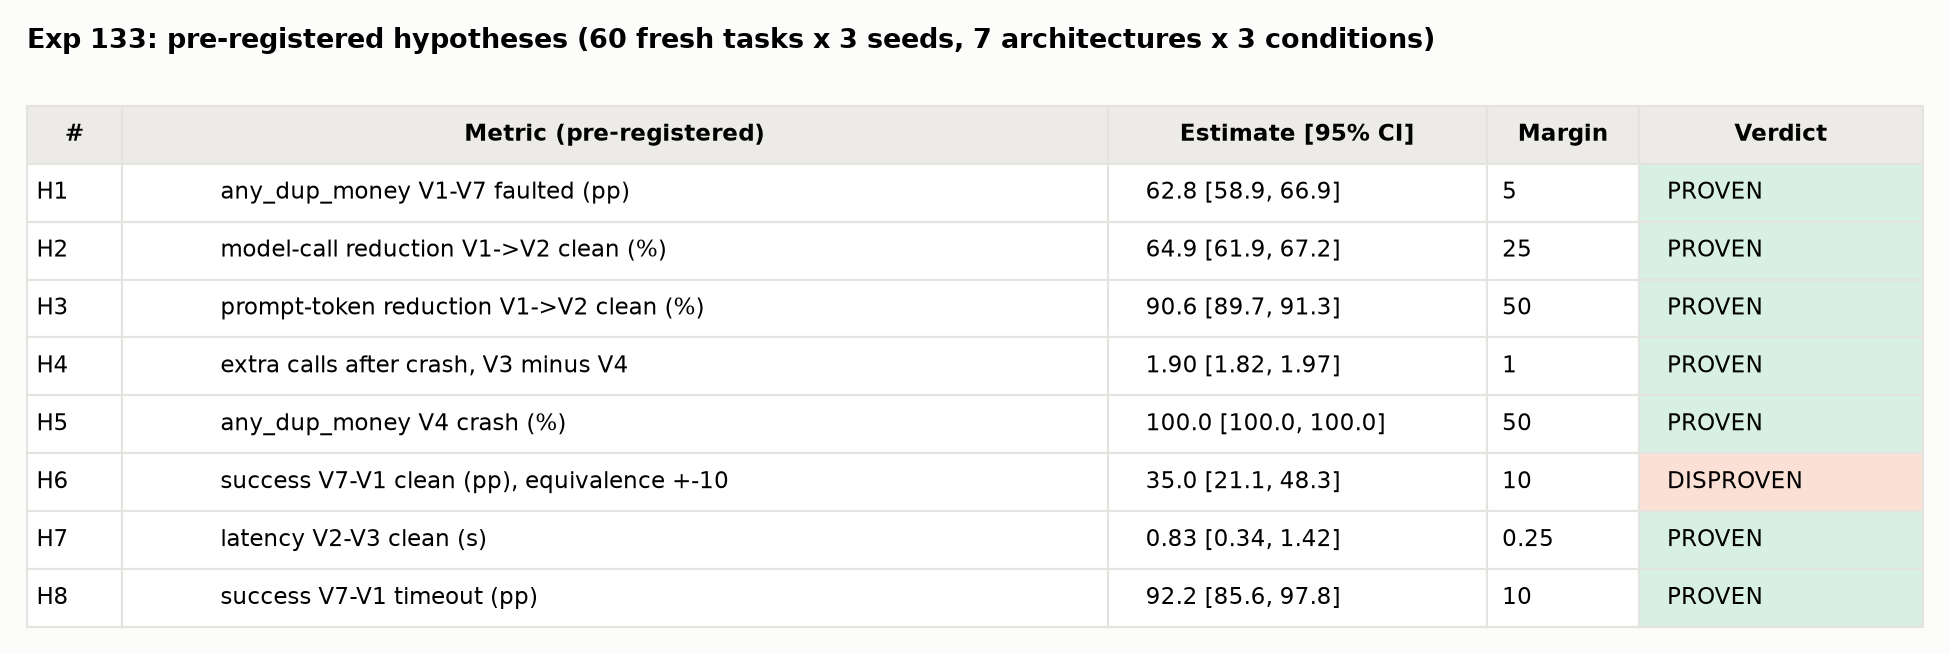
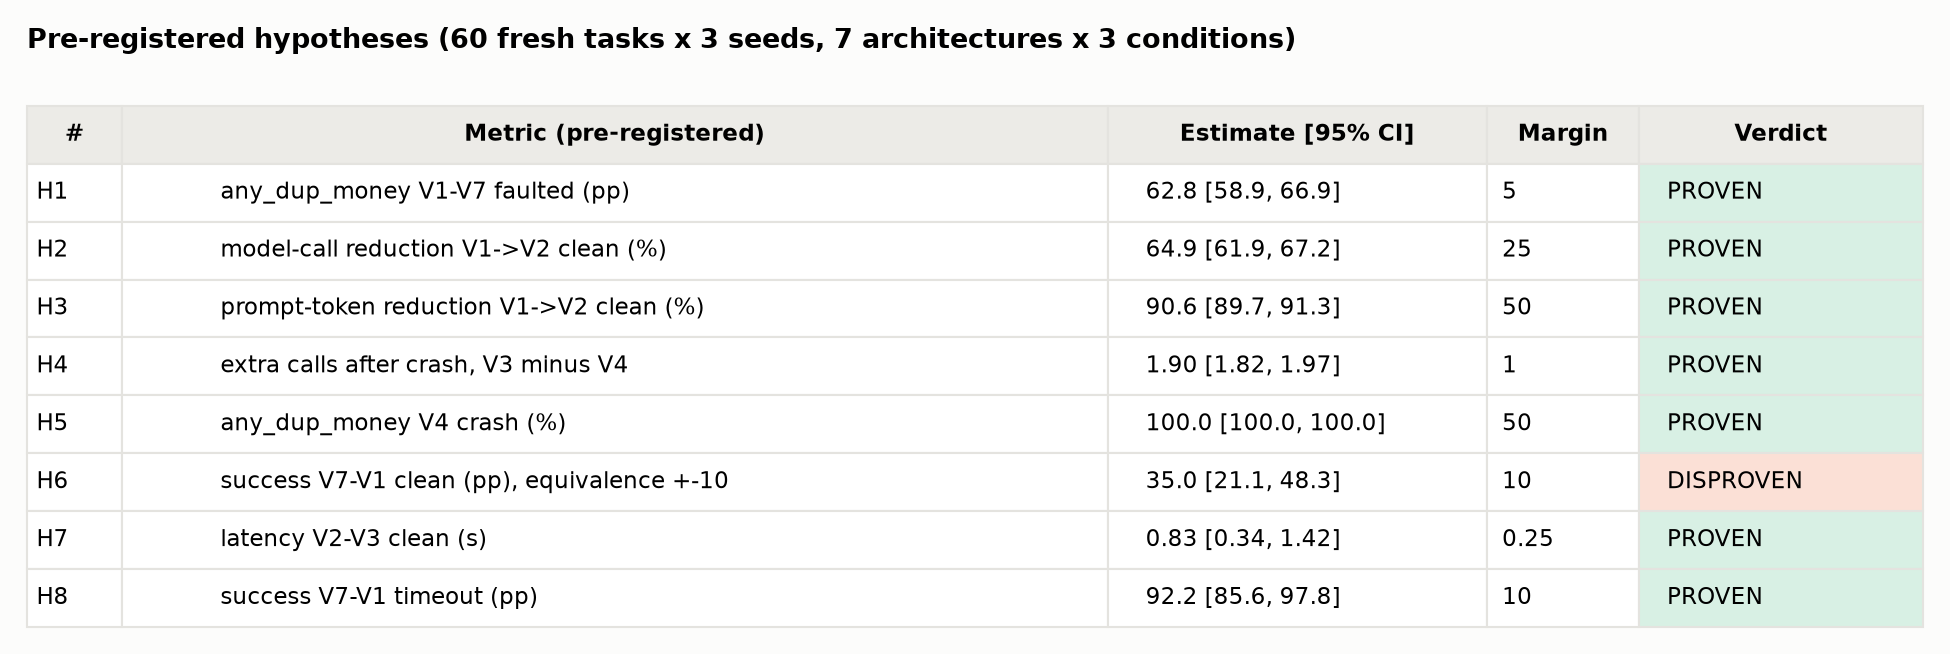
Rename internal IDs to descriptive names
Folder, file and wording cleanup only: internal experiment numbers and process notes replaced with descriptive names. Data and results unchanged.

Changed region(s): [[0.0, 0.0306, 0.7385, 0.0917]]

diff --git a/scripts/figures.py b/scripts/figures.py
@@ -1,4 +1,4 @@
-"""Figures for Exp 133 from results/summary.json (+ hypotheses table). 150 dpi PNGs in figures/."""
+"""Figures for this experiment from results/summary.json (+ hypotheses table). 150 dpi PNGs in figures/."""
 import json
 import matplotlib
 matplotlib.use("Agg")
@@ -83,7 +83,7 @@ for (r, c), cell in tb.get_celld().items():
     cell.set_edgecolor(GRID)
     if r == 0: cell.set_text_props(fontweight="bold"); cell.set_facecolor("#ecebe7")
     elif c == 4: cell.set_facecolor(VC.get(rows[r - 1][4], SURF))
-ax.set_title(f"Exp 133: pre-registered hypotheses ({S['n_tasks']} fresh tasks x {len(S['seeds'])} seeds, 7 architectures x 3 conditions)",
+ax.set_title(f"Pre-registered hypotheses ({S['n_tasks']} fresh tasks x {len(S['seeds'])} seeds, 7 architectures x 3 conditions)",
              loc="left", fontsize=13, fontweight="bold")
 fig.tight_layout(); fig.savefig("figures/table.png", dpi=150); plt.close(fig)
 
@@ -102,7 +102,7 @@ for (r, c), cell in tb.get_celld().items():
     cell.set_edgecolor(GRID)
     if r == 0: cell.set_text_props(fontweight="bold"); cell.set_facecolor("#ecebe7"); cell.set_height(cell.get_height() * 1.4)
     if c == 0 and r > 0: cell.set_text_props(ha="left")
-ax.set_title(f"Exp 133: one refund agent, seven architectures ({S['n_tasks']} tasks x {len(S['seeds'])} seeds per cell, Qwen3-8B)",
+ax.set_title(f"One refund agent, seven architectures ({S['n_tasks']} tasks x {len(S['seeds'])} seeds per cell, Qwen3-8B)",
              loc="left", fontsize=13, fontweight="bold")
 fig.tight_layout(); fig.savefig("figures/table_archs.png", dpi=150); plt.close(fig)
 print("figures written")

diff --git a/scripts/agents.py b/scripts/agents.py
@@ -1,4 +1,4 @@
-"""Experiment 133: one refund agent, seven LangGraph architectures, under injected failures.
+"""One refund agent, seven LangGraph architectures, under injected failures.
 
 Adapted from brahim-guaali/graph-engineering-from-first-principles (MIT): same job (food-delivery
 refunds), same policy, same progression (loop -> typed graph -> supersteps -> checkpoints ->
@@ -46,7 +46,7 @@ MAX_STARTS = 3            # a run may be (re)started at most 3 times by the oute
 REACT_MAX_STEPS = 14      # model calls per process start for the loop
 TOOL_LATENCY = float(os.environ.get("TOOL_LATENCY", "0.25"))
 TIMEOUT_S = float(os.environ.get("TIMEOUT_S", "2.0"))
-CKPT_DIR = os.environ.get("CKPT_DIR", "/tmp/ckpt133")
+CKPT_DIR = os.environ.get("CKPT_DIR", "/tmp/ckpt_agents")
 ARCHS = ["V1_react", "V2_structured", "V3_parallel", "V4_checkpoint", "V5_approval", "V6_retries", "V7_full"]
 
 

diff --git a/scripts/tasks.py b/scripts/tasks.py
@@ -1,4 +1,4 @@
-"""Task set for experiment 133, scaled up from the source repo's food-delivery refund job
+"""Task set for this experiment, scaled up from the source repo's food-delivery refund job
 (brahim-guaali/graph-engineering-from-first-principles, services/data.py + agentkit/cases.py).
 
 Same six-clause policy, same kinds of cases (late, missing, spoiled, slightly late, cancelled,

diff --git a/scripts/analyze.py b/scripts/analyze.py
@@ -1,4 +1,4 @@
-"""Pre-registered analysis for Exp 133. Unit = task (mean over seeds), paired across archs.
+"""Pre-registered analysis for this experiment. Unit = task (mean over seeds), paired across archs.
 95% percentile bootstrap over tasks, 10,000 resamples, seed 0.
 
   python analyze.py results/runs_confirm.jsonl results/summary.json

diff --git a/scripts/run_phase.py b/scripts/run_phase.py
@@ -15,7 +15,7 @@ from concurrent.futures import ThreadPoolExecutor, as_completed
 from pathlib import Path
 
 sys.path.insert(0, str(Path(__file__).resolve().parent))
-import agent133 as A
+import agents as A
 
 ap = argparse.ArgumentParser()
 ap.add_argument("--phase", choices=["pilot", "confirm"], required=True)

diff --git a/scripts/stub_llm.py b/scripts/stub_llm.py
@@ -4,7 +4,7 @@ by peeking at the task facts embedded in the prompt."""
 import json
 import re
 
-import agent133 as A
+import agents as A
 
 
 class StubLLM:

diff --git a/README.md b/README.md
@@ -1,4 +1,4 @@
-# Experiment 133: the same AI agent in seven architectures, under failure
+# The same AI agent in seven architectures, under failure
 
 **Question.** When a tool call times out or the process dies mid-run, which agent architecture keeps doing the job right, and which one sends the refund twice? We build one task-doing agent in LangGraph seven ways and break every version at the same fixed points.
 
@@ -9,7 +9,7 @@
 - **Agent job.** A customer message comes in. The agent must look up the order, the policy and the fraud score, then do exactly the right side effects: `issue_refund` (correct amount), `issue_credit` ($5), `create_ticket` (queue `risk` for fraud, `support` for non-refund complaints), and `notify_customer` (email). Refunds over $500 need manager approval first. Side-effecting tools are mocks that write to a ledger, so every committed effect is counted.
 - **Tasks.** 72 tasks generated by `scripts/tasks.py` (fixed seed 133) from the source's nine case types: late >45 min, late big order (>$500, needs approval), missing item, spoiled item, slightly late, cancelled after cooking, fraud, rider/app complaint, prompt injection. Ground truth computed by code from order facts. **Pilot: P01-P12 (12 tasks). Confirmatory: T01-T60 (60 fresh tasks never used in the pilot).**
 - **Model.** Qwen3-8B (FP8 weights, `Qwen/Qwen3-8B-FP8`), served by vLLM on a Colab L4 with Hermes tool calling and JSON-schema structured output; thinking disabled; temperature 0.7, top-p 0.8, top-k 20; per-request seed derived from the run seed. Token counts come from the server's `usage` field.
-- **Seven architectures** (all LangGraph 1.1, `scripts/agent133.py`):
+- **Seven architectures** (all LangGraph 1.1, `scripts/agents.py`):
 
 | ID | Architecture | What it adds |
 |---|---|---|
@@ -57,16 +57,16 @@ The pilot (P01-P12, 1 seed) is used only to check that faults fire, that all arc
 
 ## Pilot amendment (18 Oct 2026, written before the confirmatory run)
 
-- **Pilot v0 discarded as a plumbing failure** (`results/runs_pilot_v0.jsonl`, kept for transparency): with vLLM's default JSON-schema decoding, Qwen3-8B sometimes emitted runaway whitespace (structured outputs >20,000 lines) until max_tokens, so `classify`/`decide` failed to parse in a large share of V2-V7 runs. Fix: vLLM restarted with `--structured-outputs-config '{"disable_any_whitespace": true}'` (and `--max-num-seqs 48`). No agent, task, fault or scoring code changed. The pilot was rerun on the same 12 pilot tasks (`results/runs_pilot.jsonl`, 252 runs, 138 s, 0 parse failures, every fault fired in 12/12 faulted runs per cell).
+- **First pilot attempt discarded as a plumbing failure** (`results/runs_pilot_discarded.jsonl`, kept for transparency): with vLLM's default JSON-schema decoding, Qwen3-8B sometimes emitted runaway whitespace (structured outputs >20,000 lines) until max_tokens, so `classify`/`decide` failed to parse in a large share of V2-V7 runs. Fix: vLLM restarted with `--structured-outputs-config '{"disable_any_whitespace": true}'` (and `--max-num-seqs 48`). No agent, task, fault or scoring code changed. The pilot was rerun on the same 12 pilot tasks (`results/runs_pilot.jsonl`, 252 runs, 138 s, 0 parse failures, every fault fired in 12/12 faulted runs per cell).
 - **Pilot readings** (12 tasks, 1 seed; `results/summary_pilot.json`): V1 faulted duplicate rate 71% vs V7 0%; model calls V1 6.0 vs V2 1.9 per clean run; prompt tokens 7,550 vs 643; V3 re-does ~1.9 model calls after a crash, V4 0; V4 crash duplicates 100%; clean success V1 67% vs V7 92%; V7 timeout success 92% vs V1 0%.
 - **Latency caveat found in the pilot**: runs execute 24 at a time against one vLLM server, so per-run latency includes GPU queueing (clean V2 vs V3 differed by 0.5 s with a CI of about +-12 s). H7 is therefore likely underpowered at 60 tasks. Predictions, margins and the H7 metric are **unchanged**; this is noted so an INCONCLUSIVE H7 is not a surprise.
 - Nothing else changes. Confirmatory run: T01-T60 (fresh), seeds 0, 1, 2, same server flags. (Executed with 32 concurrent workers, not 24; see results/incident_double_driver.md for an aborted first attempt.)
 
 ## Files
 
-- `scripts/tasks.py` (task generator), `scripts/agent133.py` (platform mock, faults, 7 architectures, scorer), `scripts/run_phase.py` (resumable driver), `scripts/vm_setup.sh`, `scripts/vm_run.sh` (run on the Colab VM, detached), `scripts/stub_llm.py` (fake model for plumbing tests only), `scripts/analyze.py`, `scripts/figures.py`.
+- `scripts/tasks.py` (task generator), `scripts/agents.py` (platform mock, faults, 7 architectures, scorer), `scripts/run_phase.py` (resumable driver), `scripts/vm_setup.sh`, `scripts/vm_run.sh` (run on the Colab VM, detached), `scripts/stub_llm.py` (fake model for plumbing tests only), `scripts/analyze.py`, `scripts/figures.py`.
 - `results/tasks.json`, `results/runs_pilot.jsonl`, `results/runs_confirm.jsonl`, `results/summary.json`, `results/timing.json`, `results/incident_double_driver.md` (run interruptions), `figures/` (fig1-3, table.png, table_archs.png, colab_run.txt), `writeup.md`, `blog.md`.
 
 ## Timing / compute
 
-Timing: estimated 165 min, actual about 230 min (setup incl. GPU allocation waits 65, pilot 20, confirmatory GPU run 135 incl. two Colab VM losses, eval 5, writeup 25). GPU: NVIDIA L4 (Colab, three VMs in sequence). Compute: about 4.8 CU (balance 131.81 -> 127.05), under the 6 CU cap. Results: see writeup.md (H1 PROVEN; 7 of 8 hypotheses PROVEN, H6 DISPROVEN).
+Timing: estimated 165 min, actual about 230 min (setup incl. GPU allocation waits 65, pilot 20, confirmatory GPU run 135 incl. two Colab VM losses, eval 5, writeup 25). GPU: NVIDIA L4 (Colab, three VMs in sequence). Compute: about 4.8 CU (balance 131.81 -> 127.05). Results: see writeup.md (H1 PROVEN; 7 of 8 hypotheses PROVEN, H6 DISPROVEN).

diff --git a/issues-found/README.md b/issues-found/README.md
@@ -1,14 +1,14 @@
 # Issues found
 
-Index regenerated 21 Oct 2026 22:13 IST. One file per issue. Files from earlier passes are kept unchanged.
+One file per issue, from an independent review on 21 Oct 2026.
 
-| file | exp | issue | status |
-|---|---|---|---|
-| [01-133-several-hypotheses-test-harness-code-not-agent-beh.md](01-133-several-hypotheses-test-harness-code-not-agent-beh.md) | 133 | Several hypotheses test harness code, not agent behaviour | Open, documented |
-| [02-133-faults-are-synthetic-and-friendly-to-idempotency-k.md](02-133-faults-are-synthetic-and-friendly-to-idempotency-k.md) | 133 | Faults are synthetic and friendly to idempotency keys | Open, documented |
-| [03-133-h6-confound.md](03-133-h6-confound.md) | 133 | H6 confound | Open, documented |
-| [04-133-v1-timeout-0-success.md](04-133-v1-timeout-0-success.md) | 133 | V1 timeout 0% success | Open, documented |
-| [05-133-effective-n-is-small-and-templated.md](05-133-effective-n-is-small-and-templated.md) | 133 | Effective n is small and templated | Open, documented |
-| [06-133-run-integrity.md](06-133-run-integrity.md) | 133 | Run integrity | Open, documented |
-| [07-133-latency-includes-gpu-queueing-at-32-concurrency.md](07-133-latency-includes-gpu-queueing-at-32-concurrency.md) | 133 | Latency includes GPU queueing at 32 concurrency | Open, documented |
-| [08-133-pre-reg-commits-can-t-be-verified.md](08-133-pre-reg-commits-can-t-be-verified.md) | 133 | Pre-reg commits can't be verified | Open, documented |
+| file | issue | status |
+|---|---|---|
+| [01-several-hypotheses-test-harness-code-not-agent-beh.md](01-several-hypotheses-test-harness-code-not-agent-beh.md) | Several hypotheses test harness code, not agent behaviour | Open, documented |
+| [02-faults-are-synthetic-and-friendly-to-idempotency-k.md](02-faults-are-synthetic-and-friendly-to-idempotency-k.md) | Faults are synthetic and friendly to idempotency keys | Open, documented |
+| [03-h6-confound.md](03-h6-confound.md) | H6 confound | Open, documented |
+| [04-v1-timeout-0-success.md](04-v1-timeout-0-success.md) | V1 timeout 0% success | Open, documented |
+| [05-effective-n-is-small-and-templated.md](05-effective-n-is-small-and-templated.md) | Effective n is small and templated | Open, documented |
+| [06-run-integrity.md](06-run-integrity.md) | Run integrity | Open, documented |
+| [07-latency-includes-gpu-queueing-at-32-concurrency.md](07-latency-includes-gpu-queueing-at-32-concurrency.md) | Latency includes GPU queueing at 32 concurrency | Open, documented |
+| [08-pre-reg-commits-can-t-be-verified.md](08-pre-reg-commits-can-t-be-verified.md) | Pre-reg commits can't be verified | Open, documented |

diff --git a/results/incident_double_driver.md b/results/incident_double_driver.md
@@ -16,22 +16,22 @@
   and a single driver started re-running the 711 dropped jobs. Before any of these rows were copied off the VM,
   Colab reclaimed the runtime (all sessions on the account vanished, ~08:05 UTC). No confirmatory outcome had been
   looked at; nothing from that attempt survives or is used.
-- 08:09 UTC: new L4 session b8-133; the full confirmatory run (T01-T60 x 3 seeds x 7 archs x 3 conditions,
+- 08:09 UTC: new L4 session agents-l4; the full confirmatory run (T01-T60 x 3 seeds x 7 archs x 3 conditions,
   3,780 runs) is redone from scratch with ONE driver, 32 workers (same as the first driver), same code and server
-  flags. The cleanup rule above is therefore moot; results/runs_confirm.jsonl is copied to the sandbox every few minutes.
+  flags. The cleanup rule above is therefore moot; results/runs_confirm.jsonl is copied to my local machine every few minutes.
 
 ## Update 2: second double-driver start on the new VM (18 Oct 2026)
 
 - 08:27:53 UTC: after vLLM came up on the new VM, two launch chains (chain.log, chain2.log) each started a confirmatory
   driver on the same output file (PIDs 8699, 8709; both began from "0 done, 3780 to run").
 - 08:31 UTC: found on resume (688 rows written, never copied off the VM, no outcomes looked at). Both drivers killed, the
-  partial file moved to /content/exp133/discarded/ (not used), checkpoint dir wiped, and ONE driver started at
+  partial file moved to /content/agents/discarded/ (not used), checkpoint dir wiped, and ONE driver started at
   08:31:47 UTC (32 workers, same code and flags). Every row in results/runs_confirm.jsonl comes from this single driver.
 
 ## Update 3: VM lost again mid-run; resumed from the saved rows (18 Oct 2026)
 
-- ~08:46-09:09 UTC: Colab reclaimed the b8-133 runtime again while the single driver (started 08:31:47) was at ~2,231/3,780 rows.
-  The last copy pulled to the sandbox (08:46 UTC) has 2,231 complete rows, all unique keys, all from that single driver.
+- ~08:46-09:09 UTC: Colab reclaimed the agents-l4 runtime again while the single driver (started 08:31:47) was at ~2,231/3,780 rows.
+  The last copy pulled to my local machine (08:46 UTC) has 2,231 complete rows, all unique keys, all from that single driver.
 - Resume (decided before looking at any confirmatory outcome): new L4 session, same code, model and server flags; the 2,231
   rows are uploaded and run_phase.py runs only the 1,549 missing (arch, task, seed, condition) jobs with ONE driver, 32
   workers, empty checkpoint dir. Runs in flight when the VM died left no row and are re-run from scratch.

diff --git a/issues-found/01-several-hypotheses-test-harness-code-not-agent-beh.md b/issues-found/01-several-hypotheses-test-harness-code-not-agent-beh.md
@@ -1,10 +1,9 @@
-# 01 (133): Several hypotheses test harness code, not agent behaviour
+# 01: Several hypotheses test harness code, not agent behaviour
 
-- **Experiment:** 133 (this repo)
-- **Found by:** an independent read-only review of the repo on 21 Oct 2026, 21:13-21:18 IST (fact sheet `133-agent-seven-architectures.md`). Numbers and paths below come from that review, which checked them against the repo's results files.
+- **Found by:** an independent read-only review of the repo on 21 Oct 2026, 21:13-21:18 IST. Numbers and paths below come from that review, which checked them against the repo's results files.
 
 ## Issue and evidence
 Several hypotheses test harness code, not agent behaviour. Their outcomes are set by construction: H5 (V4 crash dup 100% [100,100]): the side-effect node commits and crashes before its checkpoint write, so resume always re-runs it. That is deterministic, and the CI is degenerate. H1's V7 = 0% is guaranteed by a mock idempotency dict that is honoured perfectly. H4's V4 = +0.0 is deterministic resume. H7 measures overlapping 0.25 s mock sleeps. V2/V3/V5 timeout success 0% / dup 97% come from the pre-registered "restart from scratch on any failure" runner plus commit-then-timeout mocks. Only H2, H3, H6, H8 and V1's numbers really depend on LLM behaviour. "7 of 8 PROVEN" overstates what was learned empirically.
 
 ## Status
-Open, documented. Nothing in the results was changed because of it. The README/writeup or the Substack post states where it changes how the result should be read. Any fix needs a new pre-registered run on fresh data (hypothesis rules), not an edit to these numbers.
+Open, documented. Nothing in the results was changed because of it. The README/writeup or the blog post states where it changes how the result should be read. Any fix needs a new pre-registered run on fresh data (hypothesis rules), not an edit to these numbers.

diff --git a/writeup.md b/writeup.md
@@ -1,4 +1,4 @@
-# Exp 133 writeup: one refund agent, seven LangGraph architectures, under failure
+# Writeup: one refund agent, seven LangGraph architectures, under failure
 
 **Verdict: H1 (primary) PROVEN.** Of the 8 pre-registered hypotheses, 7 are PROVEN and 1 is DISPROVEN (H6, "accuracy is a tie when nothing fails").
 
@@ -59,4 +59,4 @@ Other numbers from `results/summary.json` and the raw rows:
 
 ## Timing
 
-Estimated 165 min, actual about 230 min (setup with GPU allocation waits 65, pilot 20, confirmatory GPU run 135 wall clock including two VM losses, eval 5, writeup 25). GPU: NVIDIA L4 on Colab (three VMs in sequence). Compute: about 4.8 CU (account balance 131.81 to 127.05), under the 6 CU cap. The final resumed driver ran 1,549 runs in 664 s.
+Estimated 165 min, actual about 230 min (setup with GPU allocation waits 65, pilot 20, confirmatory GPU run 135 wall clock including two VM losses, eval 5, writeup 25). GPU: NVIDIA L4 on Colab (three VMs in sequence). Compute: about 4.8 CU (account balance 131.81 to 127.05). The final resumed driver ran 1,549 runs in 664 s.

diff --git a/issues-found/03-h6-confound.md b/issues-found/03-h6-confound.md
@@ -1,0 +1,9 @@
+# 03: H6 confound
+
+- **Found by:** an independent read-only review of the repo on 21 Oct 2026, 21:13-21:18 IST. Numbers and paths below come from that review, which checked them against the repo's results files.
+
+## Issue and evidence
+H6 confound: graph archs always notify via a code node and route complaints to support by code. V1 must choose to call notify_customer. V1's 0/18 complaint and 0/18 injection mostly reflect missing notification or obeying the injection ($900 refund). So the 35 pp gap partly measures "code enforces the checklist", not "structure helps the model reason".
+
+## Status
+Open, documented. Nothing in the results was changed because of it. The README/writeup or the blog post states where it changes how the result should be read. Any fix needs a new pre-registered run on fresh data (hypothesis rules), not an edit to these numbers.
